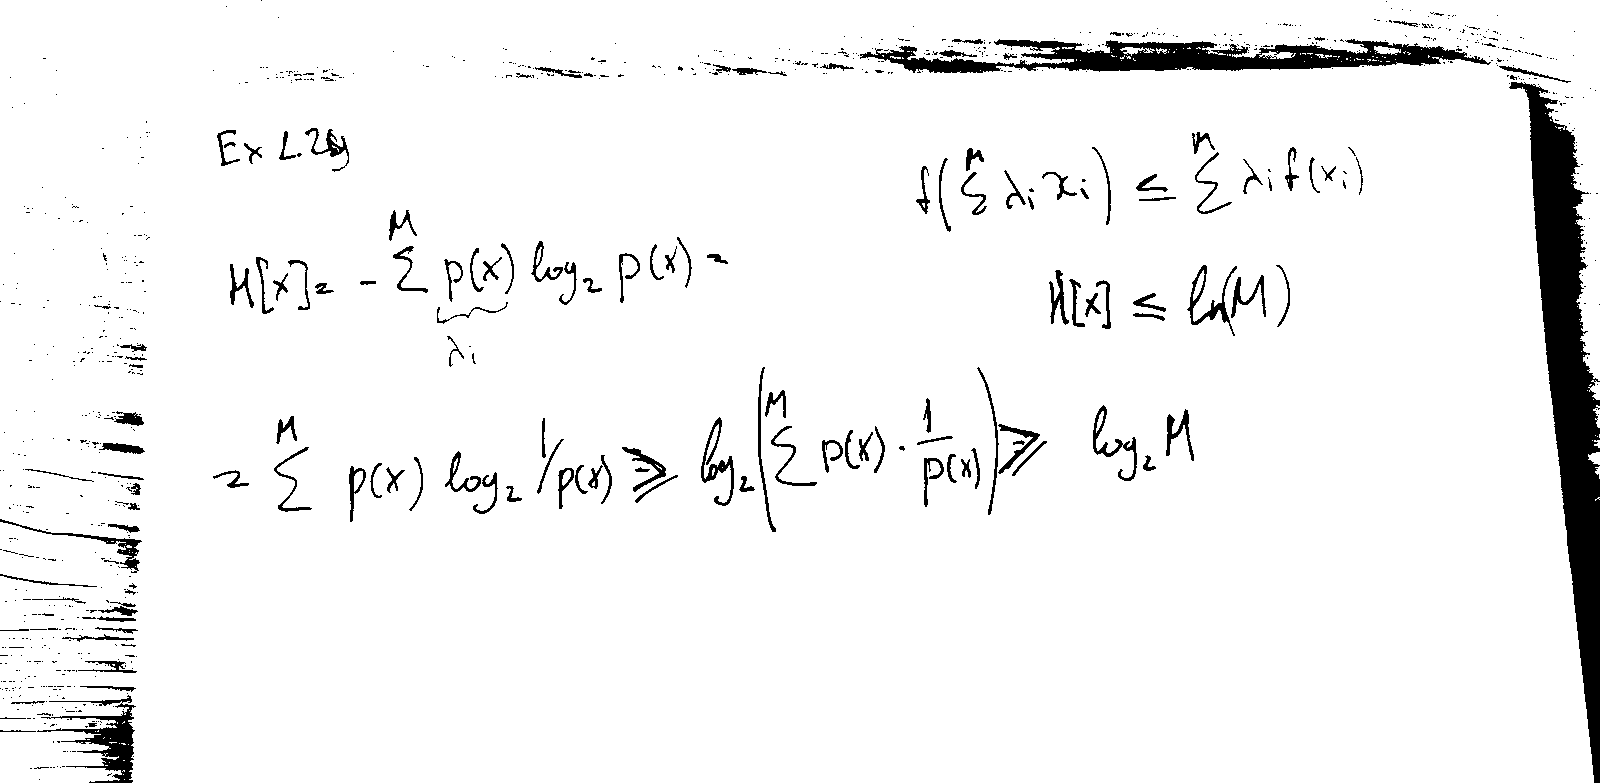
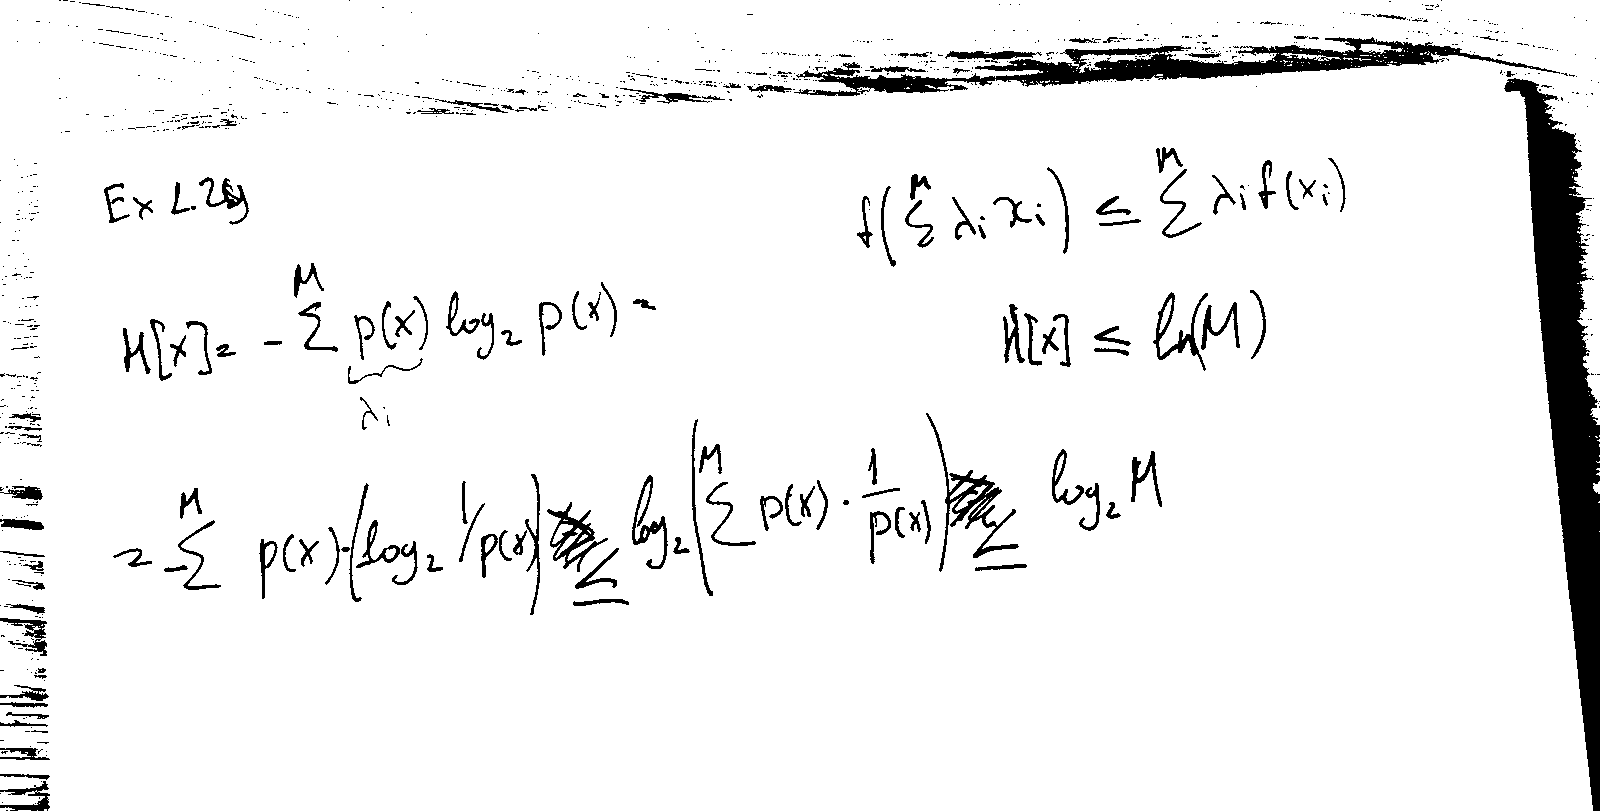
PRML: 1.29 corrected page
Claude-Session: https://claude.ai/code/session_01K8yaEDjstFqRHe6uQcgUFr

diff --git a/book-pattern-recognition-and-machine-learning-bishop/ch01_introduction/exercises.md b/book-pattern-recognition-and-machine-learning-bishop/ch01_introduction/exercises.md
@@ -1303,8 +1303,9 @@ the maximum entropy (the same result as Bishop's Lagrange-multiplier route, (1.9
 
 ### Review notes (professor)
 
-Key idea his after one hint (λᵢ = pᵢ, uᵢ = 1/pᵢ). On the page: both inequalities written as ≥,
-the direction for a convex ln; ln is concave, so take f = −ln (convex) to use (1.115) as stated.
+Key idea his after one hint (λᵢ = pᵢ, uᵢ = 1/pᵢ). First version had both inequalities as ≥ (the
+direction for a convex ln); he corrected them to ≤ (ln is concave; equivalently f = −ln is
+convex, which uses (1.115) as stated).
 Σ pᵢ · 1/pᵢ is = M, not ≥. He used log₂; the exercise asks for ln (same proof, different units).
 His question "what is x here?": the xᵢ in Jensen are just points, here 1/pᵢ, not the random
 variable x.
